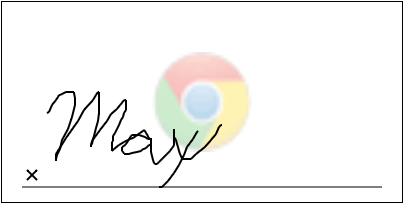
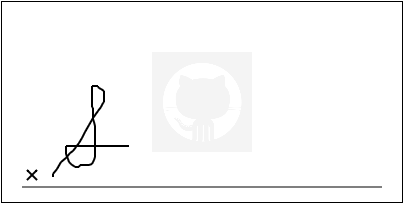
updated watermark image

Changed region(s): [[0.1188, 0.2647, 0.6238, 0.8824], [0.1188, 0.4706, 0.1485, 0.5588], [0.3861, 0.8824, 0.4158, 0.9412]]

diff --git a/signature.js-test.html b/signature.js-test.html
@@ -12,17 +12,17 @@
     <div id="my-signature-div" style="width:400px; height:200px; margin:300px; border: thin solid black"></div>
     <script type='text/javascript'>
       var signature = new Signature({
-        displayId: 'display',
+        displayId: 'my-signature-div',
         watermark: {
-          url: 'http://www.w3schools.com/images/compatible_chrome.gif',
+          url: 'img/github.png',
           position: Signature.CENTER,
-          alpha: 0.3,
+          alpha: 0.2,
           width: 100,
           height: 100
         }
       });
       var signature = new Signature( {
-          displayId: 'my-signature-div',
+          displayId: 'display',
           explanation: {
             text: "Signature signifies acceptace of aforementioned end user license agreement.",
             font: "georgia",

diff --git a/README.md b/README.md
@@ -47,11 +47,11 @@ var signature = new Signature({ displayId: 'my-signature-div' });
 
 ```javascript
 var signature = new Signature({
-	displayId: 'display',
+	displayId: 'my-signature-div',
 	watermark: {
 		url: 'http://www.w3schools.com/images/compatible_chrome.gif',
 		position: Signature.CENTER, // any cardinal/ordinal direction or CENTER (defaults to NORTH)
-		alpha: 0.3, // 0-1, representing transparency (default: 0.2)
+		alpha: 0.2, // 0-1, representing transparency (default: 0.2)
 		width: 100, // width of displayed watermark
 		height: 100 // height of displayed watermark
 	}
